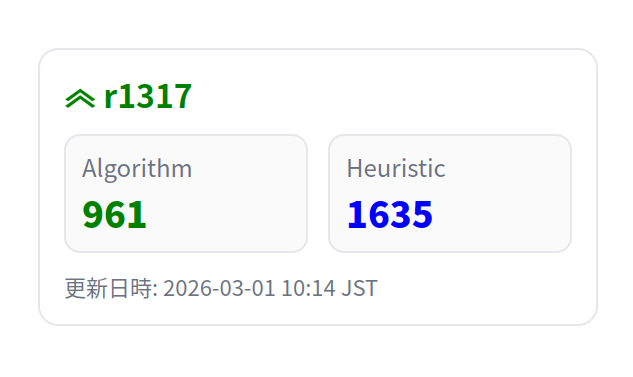
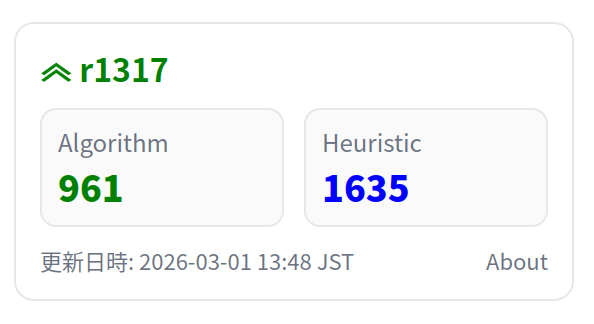
ウィジェットの見た目を変更

diff --git a/widgets/r1317.html b/widgets/r1317.html
@@ -8,15 +8,19 @@
   </head>
   <body>
     <div class="acrw-widget" role="group" aria-label="AtCoder rating widget">
-      <a class="acrw-link-all" href="https://atcoder.jp/users/r1317" target="_blank" rel="noopener noreferrer" aria-label="Open AtCoder user page"></a>
 
-			<div class="acrw-header acrw-rating--green"><img class="acrw-chevron" src="../chevrons/user-green-2.png" alt="" width="16" height="16" /> r1317</div>
+			<a class="acrw-user-link" href="https://atcoder.jp/users/r1317" target="_blank" rel="noopener noreferrer" aria-label="Open AtCoder user page">
+				<div class="acrw-header acrw-rating--green"><img class="acrw-chevron" src="../chevrons/user-green-2.png" alt="" width="16" height="16" /> r1317</div>
+			</a>
 
       <div class="acrw-ratings">
-        <div class="acrw-block" aria-label="Algorithm rating">
-          <span class="acrw-label">Algorithm</span>
-          <span class="acrw-rating acrw-rating--green">961</span>
-        </div>
+
+			<a class="acrw-alg-link" href="https://atcoder.jp/users/r1317" target="_blank" rel="noopener noreferrer" aria-label="Open AtCoder algorithm page">
+				<div class="acrw-block" aria-label="Algorithm rating">
+				  <span class="acrw-label">Algorithm</span>
+				  <span class="acrw-rating acrw-rating--green">961</span>
+				</div>
+			</a>
 
         <a class="acrw-heur-link" href="https://atcoder.jp/users/r1317?contestType=heuristic" target="_blank" rel="noopener noreferrer" aria-label="Open AtCoder heuristic page">
           <div class="acrw-block" aria-label="Heuristic rating">
@@ -26,7 +30,11 @@
         </a>
       </div>
 
-      <div class="acrw-updated">更新日時: 2026-03-01 10:14 JST</div>
+
+			<div class="acrw-updated">
+				<span>更新日時: 2026-03-01 14:09 JST</span>
+				<a class="acrw-about" href="https://github.com/r-1317/AtCoder-Rating-Widget" target="_blank" rel="noopener noreferrer">About</a>
+			</div>
     </div>
   </body>
 </html>

diff --git a/widgets/chokudai.html b/widgets/chokudai.html
@@ -8,15 +8,19 @@
   </head>
   <body>
     <div class="acrw-widget" role="group" aria-label="AtCoder rating widget">
-      <a class="acrw-link-all" href="https://atcoder.jp/users/chokudai" target="_blank" rel="noopener noreferrer" aria-label="Open AtCoder user page"></a>
 
-			<div class="acrw-header acrw-rating--red">chokudai</div>
+			<a class="acrw-user-link" href="https://atcoder.jp/users/chokudai" target="_blank" rel="noopener noreferrer" aria-label="Open AtCoder user page">
+				<div class="acrw-header acrw-rating--red">chokudai</div>
+			</a>
 
       <div class="acrw-ratings">
-        <div class="acrw-block" aria-label="Algorithm rating">
-          <span class="acrw-label">Algorithm</span>
-          <span class="acrw-rating acrw-rating--red">3031</span>
-        </div>
+
+			<a class="acrw-alg-link" href="https://atcoder.jp/users/chokudai" target="_blank" rel="noopener noreferrer" aria-label="Open AtCoder algorithm page">
+				<div class="acrw-block" aria-label="Algorithm rating">
+				  <span class="acrw-label">Algorithm</span>
+				  <span class="acrw-rating acrw-rating--red">3031</span>
+				</div>
+			</a>
 
         <a class="acrw-heur-link" href="https://atcoder.jp/users/chokudai?contestType=heuristic" target="_blank" rel="noopener noreferrer" aria-label="Open AtCoder heuristic page">
           <div class="acrw-block" aria-label="Heuristic rating">
@@ -26,7 +30,11 @@
         </a>
       </div>
 
-      <div class="acrw-updated">更新日時: 2026-03-01 10:14 JST</div>
+
+			<div class="acrw-updated">
+				<span>更新日時: 2026-03-01 14:09 JST</span>
+				<a class="acrw-about" href="https://github.com/r-1317/AtCoder-Rating-Widget" target="_blank" rel="noopener noreferrer">About</a>
+			</div>
     </div>
   </body>
 </html>

diff --git a/widgets/tourist.html b/widgets/tourist.html
@@ -8,15 +8,19 @@
   </head>
   <body>
     <div class="acrw-widget" role="group" aria-label="AtCoder rating widget">
-      <a class="acrw-link-all" href="https://atcoder.jp/users/tourist" target="_blank" rel="noopener noreferrer" aria-label="Open AtCoder user page"></a>
 
-			<div class="acrw-header acrw-rating--red">tourist</div>
+			<a class="acrw-user-link" href="https://atcoder.jp/users/tourist" target="_blank" rel="noopener noreferrer" aria-label="Open AtCoder user page">
+				<div class="acrw-header acrw-rating--red">tourist</div>
+			</a>
 
       <div class="acrw-ratings">
-        <div class="acrw-block" aria-label="Algorithm rating">
-          <span class="acrw-label">Algorithm</span>
-          <span class="acrw-rating acrw-rating--red">3782</span>
-        </div>
+
+			<a class="acrw-alg-link" href="https://atcoder.jp/users/tourist" target="_blank" rel="noopener noreferrer" aria-label="Open AtCoder algorithm page">
+				<div class="acrw-block" aria-label="Algorithm rating">
+				  <span class="acrw-label">Algorithm</span>
+				  <span class="acrw-rating acrw-rating--red">3782</span>
+				</div>
+			</a>
 
         <a class="acrw-heur-link" href="https://atcoder.jp/users/tourist?contestType=heuristic" target="_blank" rel="noopener noreferrer" aria-label="Open AtCoder heuristic page">
           <div class="acrw-block" aria-label="Heuristic rating">
@@ -26,7 +30,11 @@
         </a>
       </div>
 
-      <div class="acrw-updated">更新日時: 2026-03-01 10:14 JST</div>
+
+			<div class="acrw-updated">
+				<span>更新日時: 2026-03-01 14:09 JST</span>
+				<a class="acrw-about" href="https://github.com/r-1317/AtCoder-Rating-Widget" target="_blank" rel="noopener noreferrer">About</a>
+			</div>
     </div>
   </body>
 </html>

diff --git a/widget.css b/widget.css
@@ -5,6 +5,13 @@
 	--acrw-bg: #ffffff;
 }
 
+html,
+body {
+	width: 100%;
+	height: 100%;
+	margin: 0;
+}
+
 .acrw-widget {
 	position: relative;
 	box-sizing: border-box;
@@ -16,13 +23,6 @@
 	color: var(--acrw-text);
 	font-family: system-ui, -apple-system, "Segoe UI", Roboto, "Noto Sans JP", sans-serif;
 	line-height: 1.25;
-}
-
-.acrw-link-all {
-	position: absolute;
-	inset: 0;
-	z-index: 1;
-	text-decoration: none;
 }
 
 .acrw-header {
@@ -58,20 +58,45 @@
 }
 
 .acrw-updated {
+	display: flex;
+	align-items: baseline;
+	justify-content: space-between;
 	margin-top: 10px;
 	font-size: 11px;
 	color: var(--acrw-muted);
 }
 
+.acrw-about {
+	display: inline;
+	margin-left: 8px;
+	font-size: 11px;
+	color: var(--acrw-muted);
+	text-decoration: none;
+}
+
+.acrw-about:visited {
+	color: var(--acrw-muted);
+}
+
+.acrw-about:hover {
+	text-decoration: underline;
+	text-underline-offset: 2px;
+}
+
+.acrw-user-link,
+.acrw-alg-link,
 .acrw-heur-link {
 	position: relative;
-	z-index: 2;
+	z-index: 1;
 	display: block;
 	color: inherit;
 	text-decoration: none;
 }
 
-.acrw-heur-link:focus-visible {
+.acrw-user-link:focus-visible,
+.acrw-alg-link:focus-visible,
+.acrw-heur-link:focus-visible,
+.acrw-about:focus-visible {
 	outline: 2px solid var(--acrw-border);
 	outline-offset: 2px;
 }

diff --git a/generate_widgets.py b/generate_widgets.py
@@ -163,6 +163,7 @@ def render_widget_html(
 	updated_at_jst = updated_at_utc.astimezone(JST)
 	updated_str = updated_at_jst.strftime("%Y-%m-%d %H:%M JST")
 	user_url = build_user_url(username, None)
+	about_url = "https://github.com/r-1317/AtCoder-Rating-Widget"
 	heur_url = build_user_url(username, "heuristic")
 
 	alg_class = rating_to_class(algorithm_rating)
@@ -184,15 +185,19 @@ def render_widget_html(
   </head>
   <body>
     <div class=\"acrw-widget\" role=\"group\" aria-label=\"AtCoder rating widget\">
-      <a class=\"acrw-link-all\" href=\"{user_url}\" target=\"_blank\" rel=\"noopener noreferrer\" aria-label=\"Open AtCoder user page\"></a>
 
-			<div class=\"acrw-header {alg_class}\">{chevron_html}{username}</div>
+			<a class=\"acrw-user-link\" href=\"{user_url}\" target=\"_blank\" rel=\"noopener noreferrer\" aria-label=\"Open AtCoder user page\">
+				<div class=\"acrw-header {alg_class}\">{chevron_html}{username}</div>
+			</a>
 
       <div class=\"acrw-ratings\">
-        <div class=\"acrw-block\" aria-label=\"Algorithm rating\">
-          <span class=\"acrw-label\">Algorithm</span>
-          <span class=\"acrw-rating {alg_class}\">{alg_text}</span>
-        </div>
+
+			<a class=\"acrw-alg-link\" href=\"{user_url}\" target=\"_blank\" rel=\"noopener noreferrer\" aria-label=\"Open AtCoder algorithm page\">
+				<div class=\"acrw-block\" aria-label=\"Algorithm rating\">
+				  <span class=\"acrw-label\">Algorithm</span>
+				  <span class=\"acrw-rating {alg_class}\">{alg_text}</span>
+				</div>
+			</a>
 
         <a class=\"acrw-heur-link\" href=\"{heur_url}\" target=\"_blank\" rel=\"noopener noreferrer\" aria-label=\"Open AtCoder heuristic page\">
           <div class=\"acrw-block\" aria-label=\"Heuristic rating\">
@@ -202,7 +207,11 @@ def render_widget_html(
         </a>
       </div>
 
-      <div class=\"acrw-updated\">更新日時: {updated_str}</div>
+
+			<div class=\"acrw-updated\">
+				<span>更新日時: {updated_str}</span>
+				<a class=\"acrw-about\" href=\"{about_url}\" target=\"_blank\" rel=\"noopener noreferrer\">About</a>
+			</div>
     </div>
   </body>
 </html>
@@ -211,6 +220,7 @@ def render_widget_html(
 		username=username,
 		user_url=user_url,
 		heur_url=heur_url,
+		about_url=about_url,
 		alg_class=alg_class,
 		heur_class=heur_class,
 		alg_text=rating_text(algorithm_rating),

diff --git a/README.md b/README.md
@@ -1,6 +1,6 @@
 # AtCoder Rating Widget
 
-<img src="./img/widget-saple.png" width="422" alt="生成されるウィジェットの例">
+<img src="./img/widget-saple.png" width="396" alt="生成されるウィジェットの例">
 
 ## 概要
 
@@ -59,15 +59,10 @@ GitHub のリポジトリ画面から、以下を設定します。
 生成されたウィジェットは GitHub Pages 上で配信されます。任意の HTML に、以下のように埋め込めます。
 
 ```html
-<object data="https://{あなたのgithubユーザ名}.github.io/AtCoder-Rating-Widget/widgets/{AtCoderユーザ名}.html" type="text/html" width="320" height="160"></object>
+<object data="https://{あなたのgithubユーザ名}.github.io/AtCoder-Rating-Widget/widgets/{AtCoderユーザ名}.html" type="text/html" width="320" height="140"></object>
 ```
-
-`width`と`height`は環境によって最適な値が異なりますので、適宜調整してお使いください。
 
 ## ライセンス
 
-このソフトウェアは、[MIT License](https://opensource.org/license/mit/)の下で配布されています。詳細は[LICENSE](./LICENSE)を参照してください。
+このソフトウェアは、[MIT License](./LICENSE) の下で配布されております。
 
-<!-- --- -->
-
-Copyright © 2026 [r-1317](https://github.com/r-1317) All Rights Reserved.

diff --git a/何がしたいか.md b/何がしたいか.md
@@ -66,3 +66,20 @@ AtCoderのと基本的に同じだが、任意色も赤色として扱う(追記
 - レーティング1056: `user-green-3.png`
 - レーティング1146: `user-green-4.png`
 - レーティング1200: `user-cyan-1.png`
+
+## 変更01
+ウィジェットのレイアウトについて変更
+- 現在はウィジェットのどこをクリックしてもAtCoderのユーザーページに飛ぶようになっている
+- AlgorithmもHeuristicと同じ範囲のみにする
+- ユーザ名やchevronsの画像をクリックしてもAlgorithmのページに飛ぶように
+- 更新日時の下に`このウィジェットについて`を作成
+  - 更新日時と同じような文字で
+  - `https://github.com/r-1317/AtCoder-Rating-Widget`へのリンクとする
+  - 普通の、<a>タグのリンク
+
+## 変更02
+- 埋め込みのため、ウィジェットのhtmlページの大きさを画面いっぱいにする
+
+## 変更03
+- `このウィジェットについて`の行が存在するとレイアウトが悪くなる
+- 更新日時の行の右端に`About`として同等のリンクを貼る
